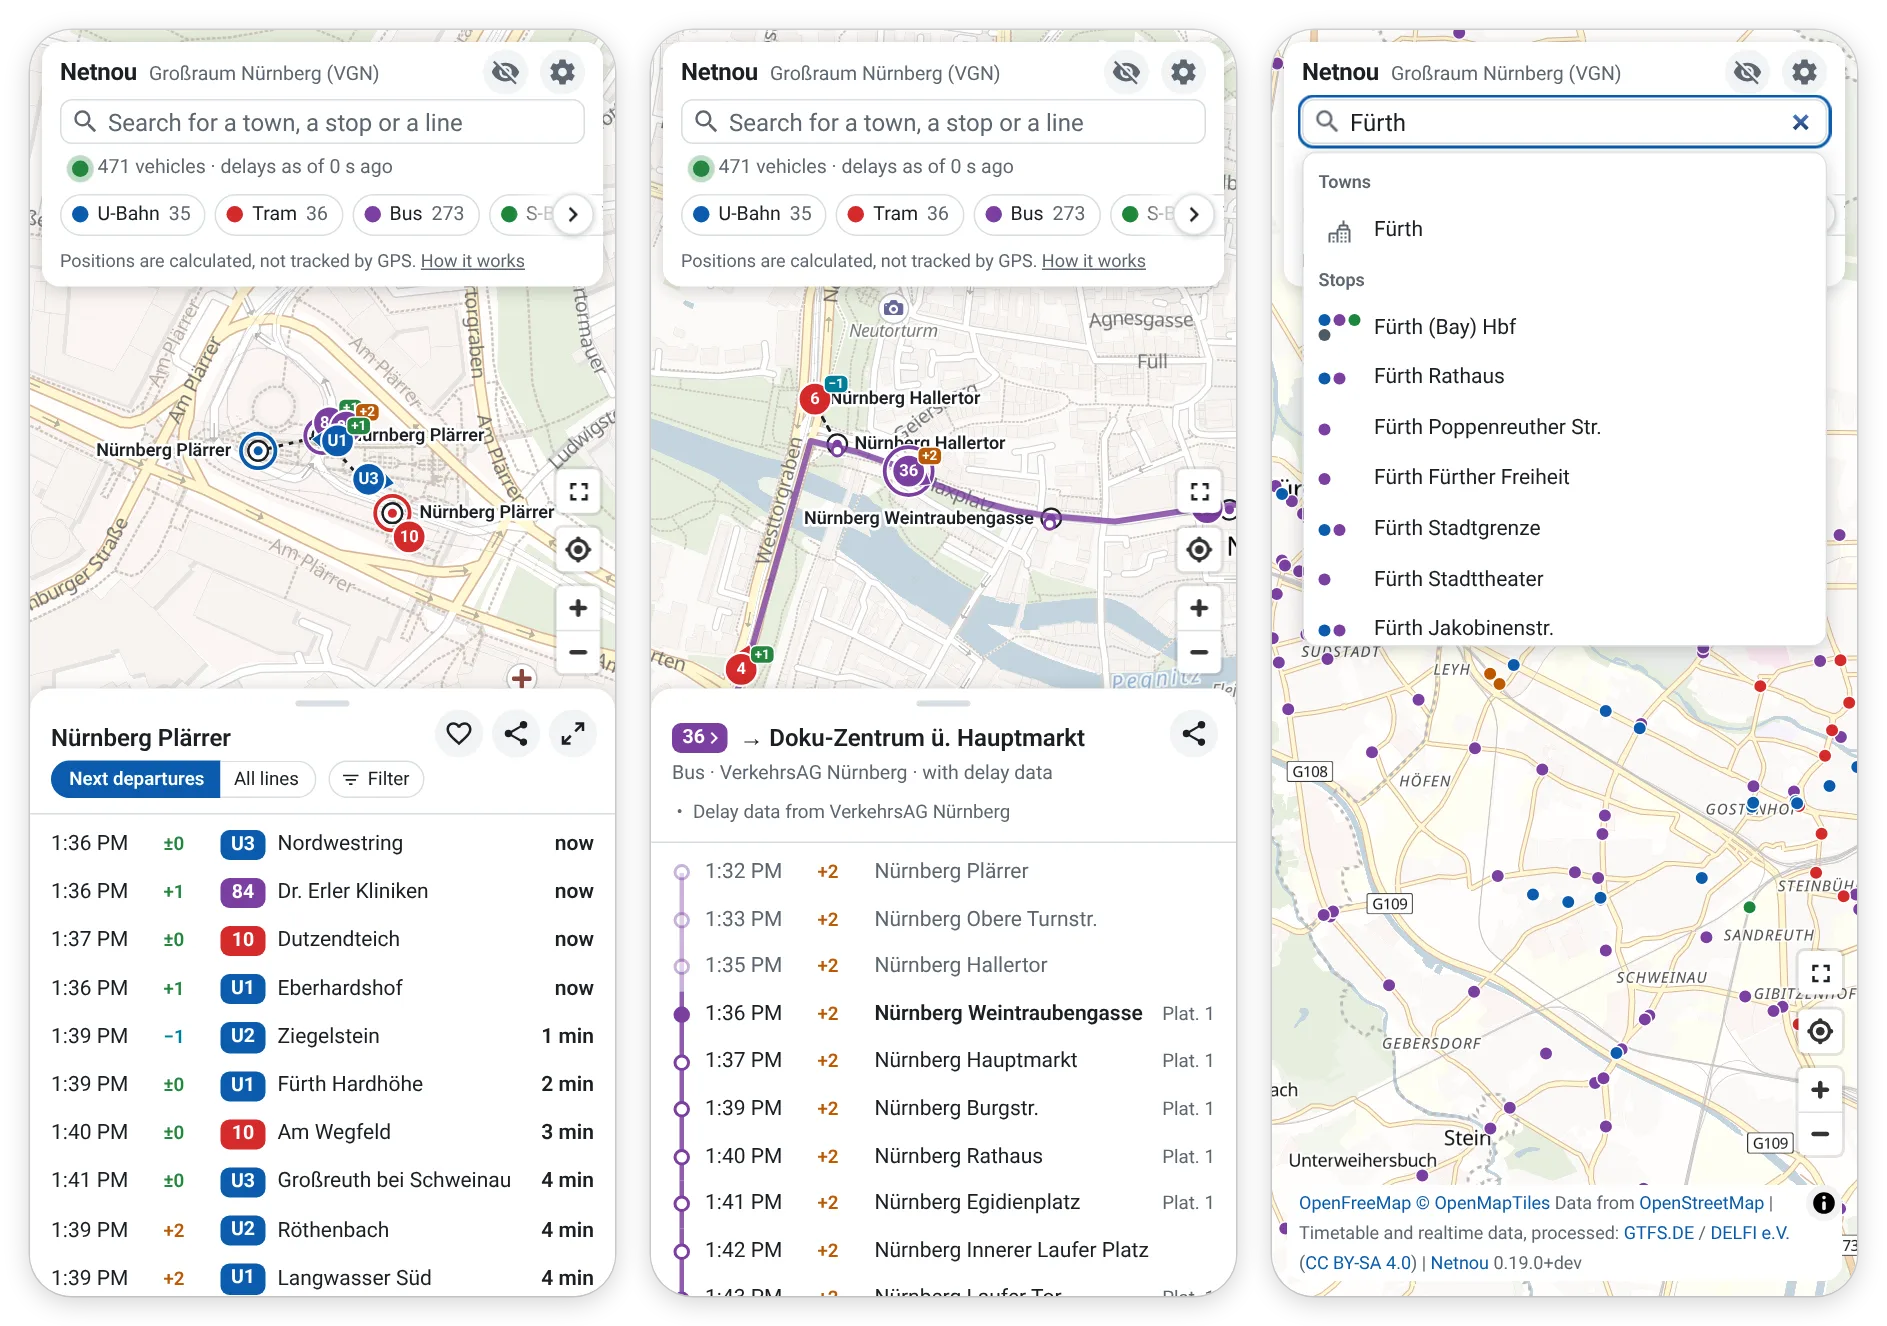
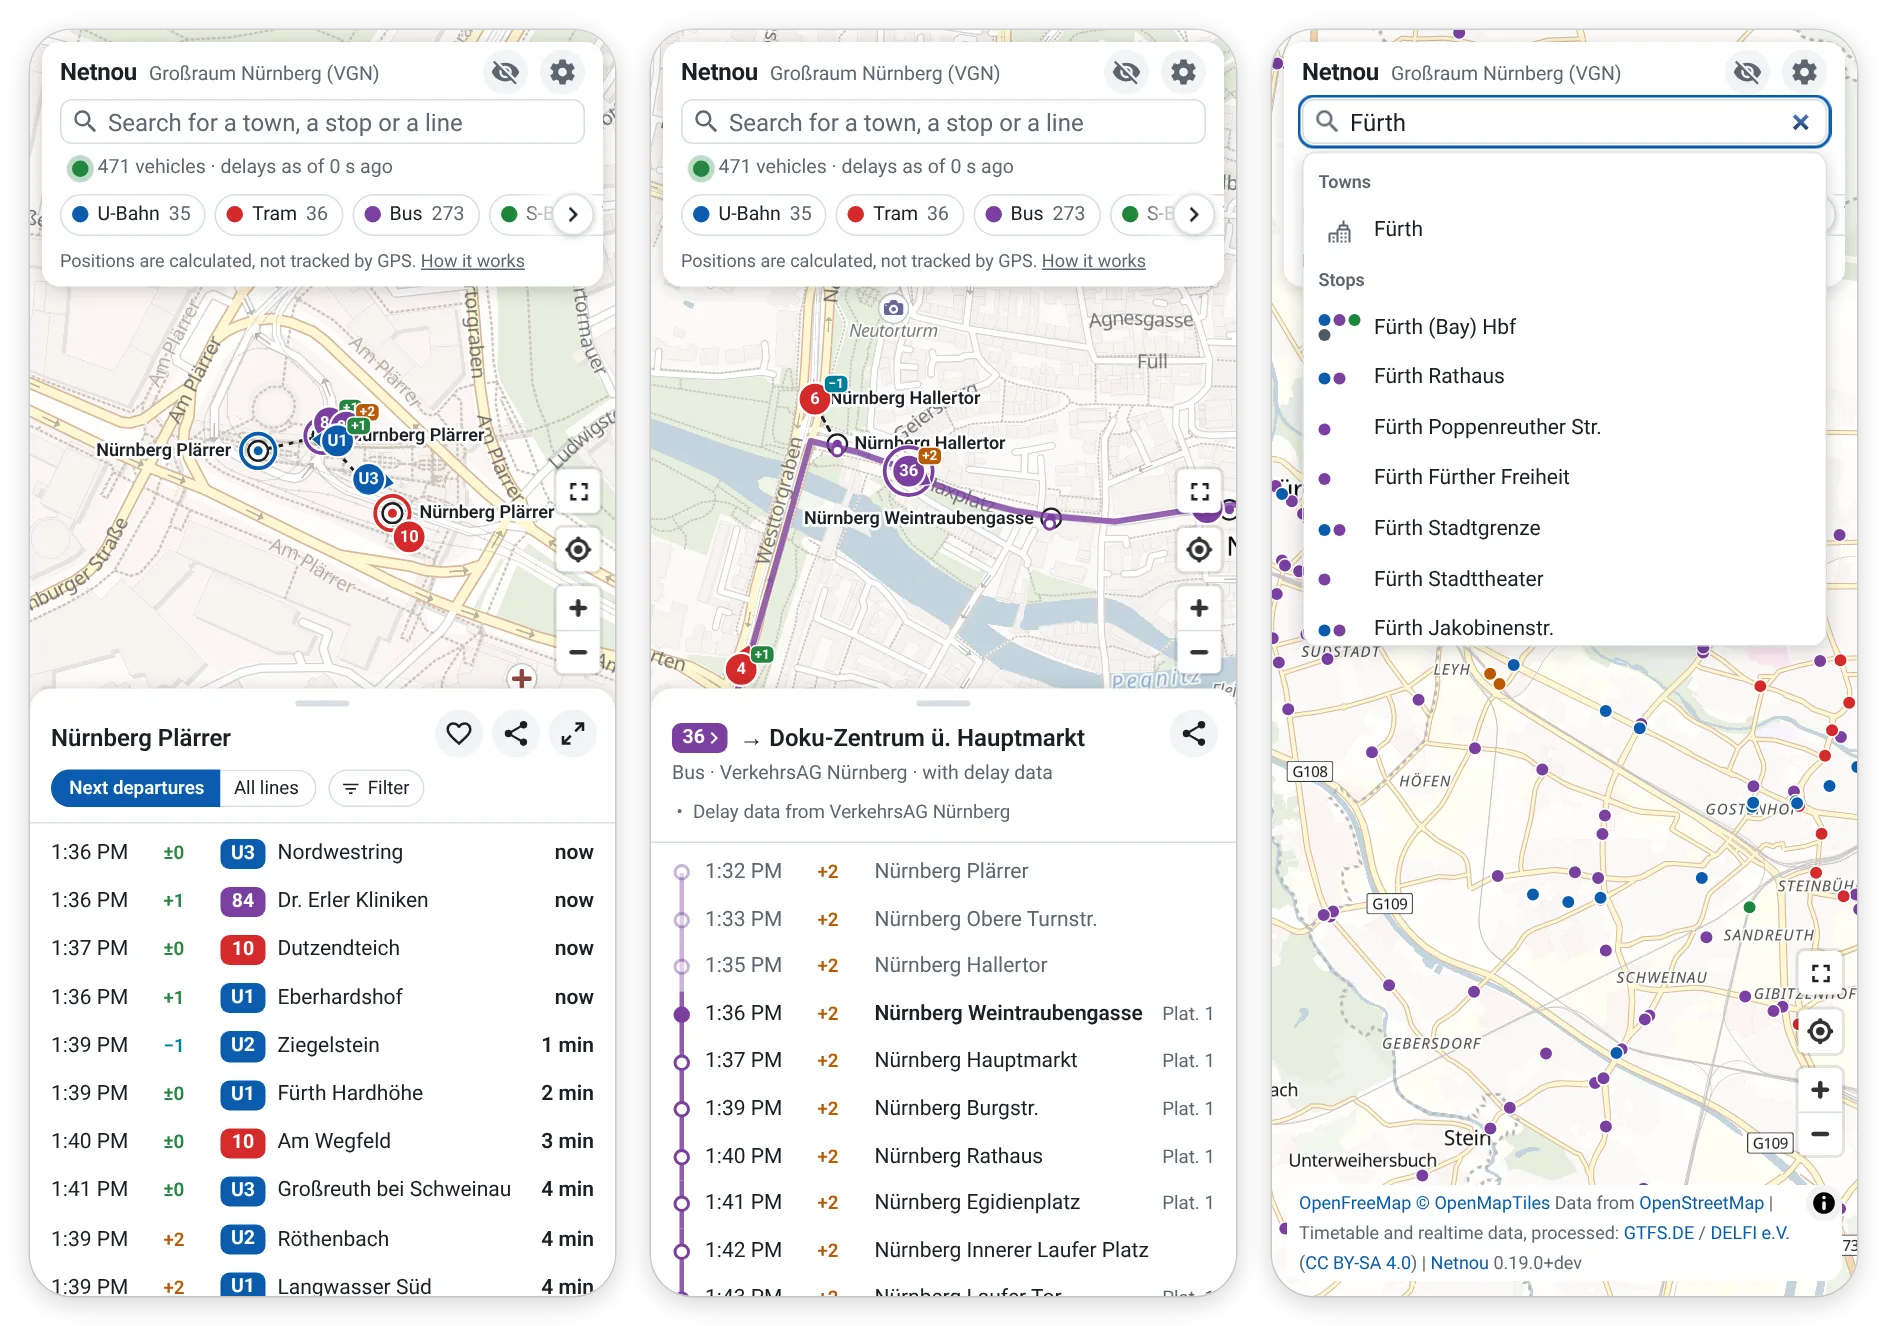
fix(page): the switch of a stop clear of the buttons in the corner, with room between
The switch and the chip reach under the heart, share and enlarge buttons,
and their row began 0.4 px below them on a wide screen and 2.4 px below
them on a phone, so that on some screens they touched. It is 6 px lower
now, with 6.4 and 8.4 px between them; a board, whose name keeps the line
below it clear of the buttons, has its own margins as before.

Changed region(s): [[0.0307, 0.5566, 0.3074, 0.9894], [0.2766, 0.6184, 0.3381, 0.6493]]

diff --git a/public/style.css b/public/style.css
@@ -622,8 +622,11 @@ button:focus-visible, select:focus-visible, .row:focus-visible, .panel:focus-vis
    all or only those chosen, and opens the sheet to choose them; its cross
    shows all again. Sizes in em, so that it grows with a board. */
 .panel-head .sub.with-choice { display: flex; flex-wrap: wrap; align-items: center; gap: 0.3em 0.6em; }
-/* (out to the edge the rows below end at, as the notes: the buttons in the corner are above it, and the switch and the chip fit on one line of a wide screen too) */
-.panel-head .sub.with-choice { margin-right: -34px; }
+/* (out to the edge the rows below end at, as the notes, so that the switch and the chip fit on one line of a wide
+   screen too: they may reach under the buttons in the corner, and are lower than a line below a name is, to be clear
+   of them with room between; on a board, whose name is higher than the buttons, as the line below it is there) */
+.panel-head .sub.with-choice { margin: 10px -34px 0 0; }
+.board-head .sub.with-choice { margin: 0.1em 0 0; }
 .choice { display: inline-flex; align-items: center; max-width: 100%; border: 1px solid var(--border); border-radius: 999px; background: var(--bg); color: var(--text); font-size: 0.96em; }
 .choice.chosen { border-color: var(--text); font-weight: 600; }
 .choice-open { display: inline-flex; align-items: center; gap: 0.35em; min-width: 0; padding: 0.2em 0.7em 0.2em 0.55em; border: 0; border-radius: 999px; background: none; color: inherit; font: inherit; cursor: pointer; }
